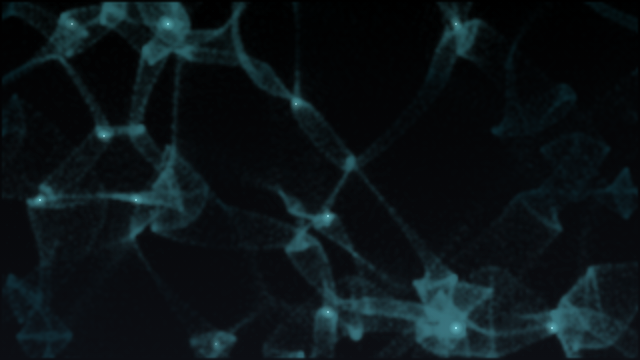
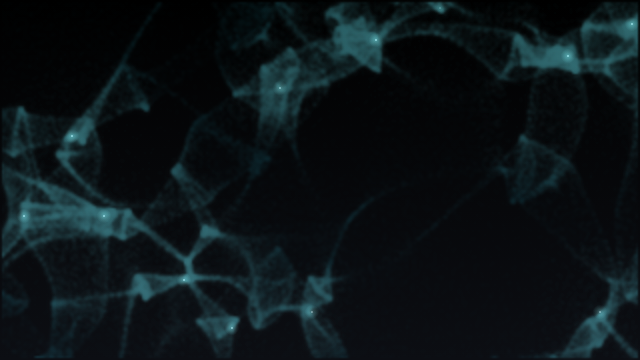
Cosmic web: no more than about 90 000 grains, and the light from a lookup table, for the frame rate

diff --git a/effects/cosmic-web/index.js b/effects/cosmic-web/index.js
@@ -68,7 +68,10 @@ const SCENE = {
     const sheet = () => new OffscreenCanvas(cols, rows);
     const st = {cols, rows, rho: new Float32Array(cols * rows), soft: new Float32Array(cols * rows), image: new ImageData(cols, rows), web: sheet(), dim: sheet(), lit: sheet(), mask: sheet(), glow: new OffscreenCanvas(Math.ceil(cols / 3), Math.ceil(rows / 3)), cycle: null, extra: [], pull: 0};
     st.px = new Uint32Array(st.image.data.buffer);
-    st.gap = 2.8 - values.density / 100 * 1.4;
+    // Density (in sixteenths of the even gas) to a white pixel's opacity, worked out once.
+    st.light = Uint32Array.from({length: 512}, (_, i) => ((170 * (1 - Math.exp(-0.15 * (i / 16) ** 1.35))) << 24 | 0xffffff) >>> 0);
+    // As fine as the density asks, but no more than about 90 000 grains on any area.
+    st.gap = Math.max(2.8 - values.density / 100 * 1.4, Math.sqrt(w * h * 1.6 / 90000));
     st.L = Math.min(w, h * 1.7) * (0.1 + values.scale / 100 * 0.6);
     return st;
   },
@@ -97,8 +100,8 @@ const SCENE = {
     const soft = st.soft;
     for (let y = 1; y < rows - 1; y += 1) for (let x = 1, o = y * cols + 1; x < cols - 1; x += 1, o += 1) soft[o] = (rho[o] * 4 + (rho[o - 1] + rho[o + 1] + rho[o - cols] + rho[o + cols]) * 2 + rho[o - cols - 1] + rho[o - cols + 1] + rho[o + cols - 1] + rho[o + cols + 1]) / 16;
     // Density to light: a thin gas stays faint, a filament is bright.
-    const base = 4 / (st.gap * st.gap);
-    for (let i = 0; i < px.length; i += 1) px[i] = soft[i] === 0 ? 0 : (170 * (1 - Math.exp(-0.15 * (soft[i] / base) ** 1.35)) << 24) | 0xffffff;
+    const scale = 16 / (4 / (st.gap * st.gap)), light = st.light;
+    for (let i = 0; i < px.length; i += 1) { const v = soft[i] * scale | 0; px[i] = light[v > 511 ? 511 : v]; }
     st.web.getContext('2d').putImageData(st.image, 0, 0);
     const tint = (sheet, colour) => {
       const c = sheet.getContext('2d');
